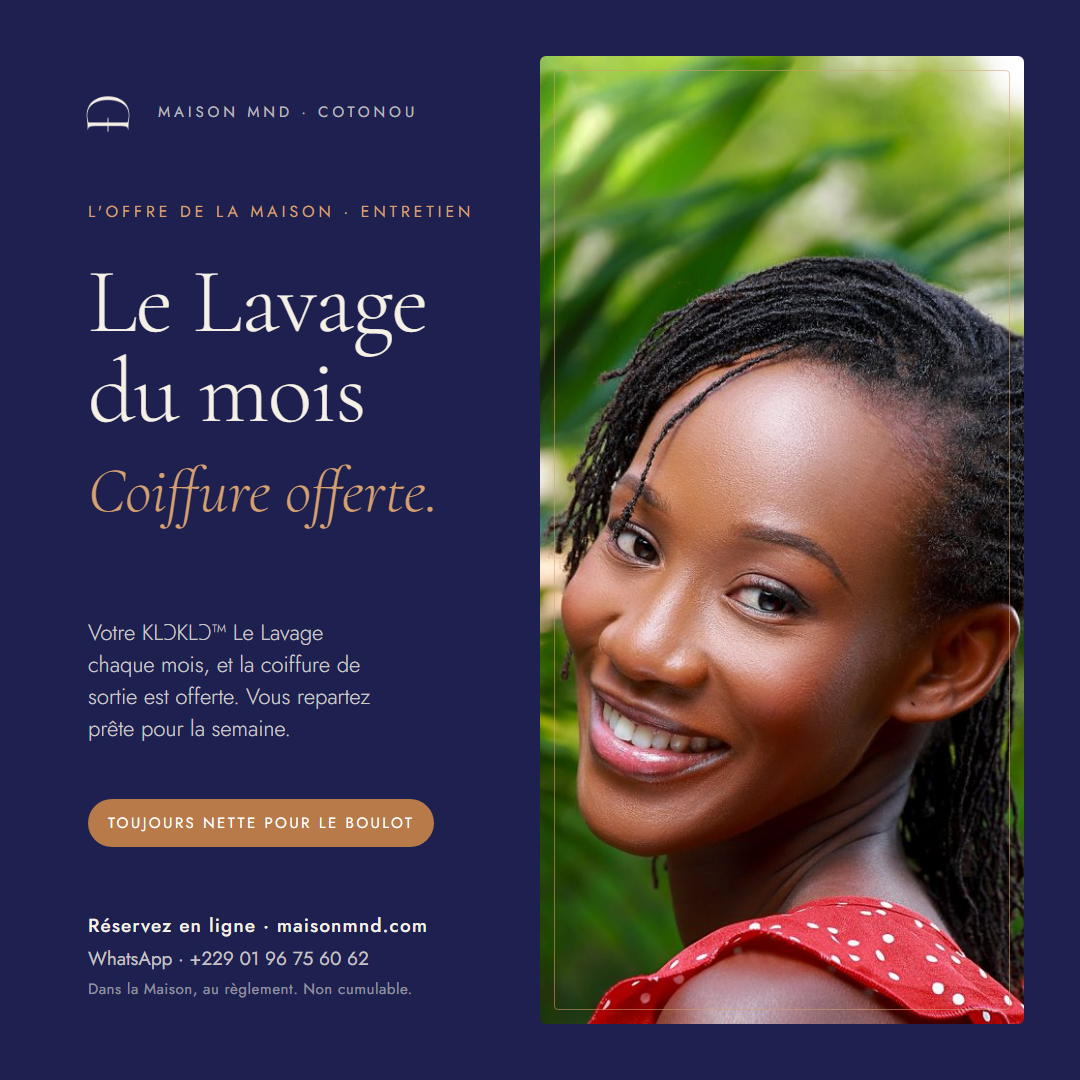
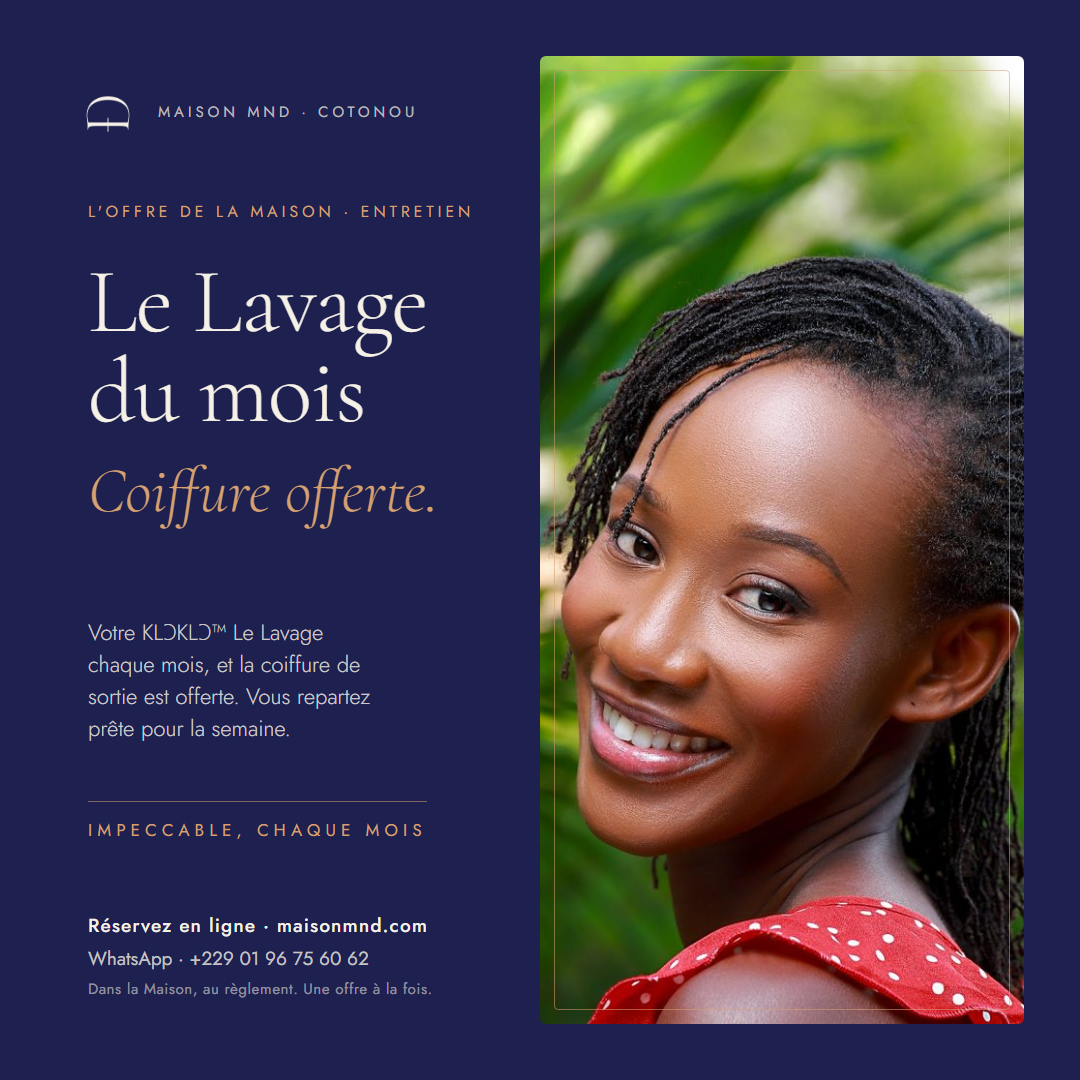
L'accueil s'épure, la Maison date de 2010, et les mots affirment
« Le salon existe depuis 2010 au lieu de 2014, corrige partout. Épure-moi
cette page, beaucoup trop chargée. Évite les mots ou textes négatifs. »
(Yéman). Neuf occurrences de l'année corrigées, dans le contenu, la voix du
site et trois maquettes ; les quatre « 2014 » restants sont des dates de
naissance de test et un code de caractère.

L'accueil perd trois blocs qui disaient deux fois la même chose : la règle
sous les boutons du grand écran, que les trois promesses portent déjà ; le
bandeau de l'offre du 18 septembre, que la carte des offres répète ; la
bande de confiance, seconde réassurance sombre. L'îlot du bandeau et la
section confiance restent dans le code pour une autre page.

Le titre des offres perd « et à quelles conditions », la phrase sur
l'absence de prix disparaît, « non cumulable » devient « une offre à la
fois », « Rien à payer en ligne » devient « Vous réglez à la Maison »,
« Pas encore » devient « Je veux créer ma couronne ». L'accroche du Lavage
du mois se relève pour une clientèle exigeante : « Impeccable, chaque
mois », en petites capitales sous un filet, à la place d'une pastille de
promotion ; les deux affiches sont réexportées.

Le harnais gagne six vérifications, dont une qui ferme un piège payé trois
fois malgré trois notes : aucun accent grave dans un commentaire HTML du
générateur, sans quoi le template literal se referme et rien ne s'écrit.

Changed region(s): [[0.0611, 0.7333, 0.3972, 0.7944], [0.3361, 0.8861, 0.3972, 0.9472]]

diff --git a/public/maquette-les-offres-familles.html b/public/maquette-les-offres-familles.html
@@ -113,22 +113,22 @@ kbd{font-family:var(--sans);font-size:12.5px;background:var(--fond-2);border:1px
 
   <!-- ══════════ A. LE LAVAGE DU MOIS ══════════ -->
   <h2>A · Le Lavage du mois</h2>
-  <p class="cap">Votre idée, avec votre accroche. Un lavage KLƆKLƆ™ chaque mois, et la coiffure de sortie est offerte. Une cliente qui travaille repart nette, et elle revient tous les mois.</p>
+  <p class="cap">Votre idée, avec une accroche relevée pour une clientèle exigeante. Un lavage KLƆKLƆ™ chaque mois, et la coiffure de sortie est offerte. Une cliente qui travaille repart nette, et elle revient tous les mois.</p>
   <div class="duo">
     <article class="offre">
-      <div class="offre__haut"><p class="sur">Entretien · Toujours nette pour le boulot</p><p class="offre__deal">Coiffure offerte</p></div>
+      <div class="offre__haut"><p class="sur">Entretien · Impeccable, chaque mois</p><p class="offre__deal">Coiffure offerte</p></div>
       <div class="offre__corps">
         <h3>Le Lavage du mois</h3>
         <p>Votre KLƆKLƆ™ Le Lavage chaque mois, et la coiffure de sortie est offerte. Vous repartez prête pour la semaine.</p>
         <a class="btn" href="#">Réserver mon lavage</a>
-        <div class="offre__cond"><b>Voir les conditions</b>Un lavage par mois, à la Maison. Le Styling · sortie soignée est offert le même jour, au règlement. Non cumulable.</div>
+        <div class="offre__cond"><b>Voir les conditions</b>Un lavage par mois, à la Maison. Le Styling · sortie soignée est offert le même jour, au règlement. Une offre à la fois.</div>
       </div>
     </article>
     <table>
       <thead><tr><th>Champ du Trône</th><th>Valeur à coller</th></tr></thead>
       <tbody>
         <tr><td class="champ">Titre</td><td><div class="val"><span>Le Lavage du mois</span><button class="copier" type="button">Copier</button></div></td></tr>
-        <tr><td class="champ">Accroche</td><td><div class="val"><span>Toujours nette pour le boulot</span><button class="copier" type="button">Copier</button></div></td></tr>
+        <tr><td class="champ">Accroche</td><td><div class="val"><span>Impeccable, chaque mois</span><button class="copier" type="button">Copier</button></div></td></tr>
         <tr><td class="champ">Avantage</td><td><div class="val"><span>Coiffure offerte</span><button class="copier" type="button">Copier</button></div></td></tr>
         <tr><td class="champ">Détail</td><td><div class="val"><span>Votre KLƆKLƆ™ Le Lavage chaque mois, et la coiffure de sortie est offerte. Vous repartez prête pour la semaine.</span><button class="copier" type="button">Copier</button></div></td></tr>
         <tr><td class="champ">Audience</td><td><div class="val"><span class="vide">Tous</span></div></td></tr>
@@ -139,7 +139,7 @@ kbd{font-family:var(--sans);font-size:12.5px;background:var(--fond-2);border:1px
         <tr><td class="champ">En vitrine, sans date de fin</td><td><div class="val"><span class="vide">Coché</span></div></td></tr>
         <tr><td class="champ">Parcours</td><td><div class="val"><span class="vide">Entretien</span></div></td></tr>
         <tr><td class="champ">Texte du bouton</td><td><div class="val"><span>Réserver mon lavage</span><button class="copier" type="button">Copier</button></div></td></tr>
-        <tr><td class="champ">Conditions</td><td><div class="val"><span>Un lavage par mois, à la Maison. Le Styling · sortie soignée est offert le même jour, au règlement. Non cumulable.</span><button class="copier" type="button">Copier</button></div></td></tr>
+        <tr><td class="champ">Conditions</td><td><div class="val"><span>Un lavage par mois, à la Maison. Le Styling · sortie soignée est offert le même jour, au règlement. Une offre à la fois.</span><button class="copier" type="button">Copier</button></div></td></tr>
       </tbody>
     </table>
   </div>
@@ -150,7 +150,7 @@ kbd{font-family:var(--sans);font-size:12.5px;background:var(--fond-2);border:1px
   <p class="sur" style="margin-top:18px">La notification, telle que vos clientes la recevront</p>
   <div class="notif">
     <img src="assets/monograms/mono-ivoire.png" alt="">
-    <div><b>Toujours nette pour le boulot · Le Lavage du mois</b><p>Coiffure offerte · Votre KLƆKLƆ™ Le Lavage chaque mois, et la coiffure de sortie est offerte. Vous repartez prête pour la semaine.</p><small>Ma Couronne · maintenant</small></div>
+    <div><b>Impeccable, chaque mois · Le Lavage du mois</b><p>Coiffure offerte · Votre KLƆKLƆ™ Le Lavage chaque mois, et la coiffure de sortie est offerte. Vous repartez prête pour la semaine.</p><small>Ma Couronne · maintenant</small></div>
   </div>
   <p class="cap" style="margin-top:8px">Le Trône compose le titre avec l'accroche et le titre, le corps avec l'avantage et le détail. C'est pour cela que ces quatre champs sont écrits pour se lire ainsi.</p>
 
@@ -164,7 +164,7 @@ kbd{font-family:var(--sans);font-size:12.5px;background:var(--fond-2);border:1px
         <h3>Deux couronnes, une venue</h3>
         <p>Venez à deux le même jour, l'une après l'autre : la seconde couronne est allégée.</p>
         <a class="btn" href="#">Réserver notre venue</a>
-        <div class="offre__cond"><b>Voir les conditions</b>Deux gestes le même jour, à la suite. Remise appliquée à la Maison, au règlement, sur le second geste. Non cumulable.</div>
+        <div class="offre__cond"><b>Voir les conditions</b>Deux gestes le même jour, à la suite. Remise appliquée à la Maison, au règlement, sur le second geste. Une offre à la fois.</div>
       </div>
     </article>
     <table>
@@ -177,7 +177,7 @@ kbd{font-family:var(--sans);font-size:12.5px;background:var(--fond-2);border:1px
         <tr><td class="champ">Remise</td><td><div class="val"><span class="vide">Laisser vide. Le champ du Trône réduirait toute la venue dans Ma Couronne ; ici la remise porte sur le second geste et s'applique au comptoir. Taux : <span class="afixer">à fixer par la Maison</span>.</span></div></td></tr>
         <tr><td class="champ">En vitrine · Parcours</td><td><div class="val"><span class="vide">Coché · Entretien</span></div></td></tr>
         <tr><td class="champ">Texte du bouton</td><td><div class="val"><span>Réserver notre venue</span><button class="copier" type="button">Copier</button></div></td></tr>
-        <tr><td class="champ">Conditions</td><td><div class="val"><span>Deux gestes le même jour, à la suite. Remise appliquée à la Maison, au règlement, sur le second geste. Non cumulable.</span><button class="copier" type="button">Copier</button></div></td></tr>
+        <tr><td class="champ">Conditions</td><td><div class="val"><span>Deux gestes le même jour, à la suite. Remise appliquée à la Maison, au règlement, sur le second geste. Une offre à la fois.</span><button class="copier" type="button">Copier</button></div></td></tr>
       </tbody>
     </table>
   </div>
@@ -192,7 +192,7 @@ kbd{font-family:var(--sans);font-size:12.5px;background:var(--fond-2);border:1px
         <h3>Parent et enfant</h3>
         <p>Votre entretien et la séance de votre enfant le même jour, l'un à côté de l'autre. La séance MND Kids est allégée.</p>
         <a class="btn" href="#">Organiser notre visite</a>
-        <div class="offre__cond"><b>Voir les conditions</b>Le même jour, à la suite. Remise sur la séance de l'enfant, au règlement. Non cumulable.</div>
+        <div class="offre__cond"><b>Voir les conditions</b>Le même jour, à la suite. Remise sur la séance de l'enfant, au règlement. Une offre à la fois.</div>
       </div>
     </article>
     <table>
@@ -205,7 +205,7 @@ kbd{font-family:var(--sans);font-size:12.5px;background:var(--fond-2);border:1px
         <tr><td class="champ">Remise</td><td><div class="val"><span class="vide">Laisser vide, même raison. Taux sur la séance de l'enfant : <span class="afixer">à fixer par la Maison</span>.</span></div></td></tr>
         <tr><td class="champ">En vitrine · Parcours</td><td><div class="val"><span class="vide">Coché · MND Kids (le bouton mène au rappel : une visite d'enfant commence par un échange)</span></div></td></tr>
         <tr><td class="champ">Texte du bouton</td><td><div class="val"><span>Organiser notre visite</span><button class="copier" type="button">Copier</button></div></td></tr>
-        <tr><td class="champ">Conditions</td><td><div class="val"><span>Le même jour, à la suite. Remise sur la séance de l'enfant, au règlement. Non cumulable.</span><button class="copier" type="button">Copier</button></div></td></tr>
+        <tr><td class="champ">Conditions</td><td><div class="val"><span>Le même jour, à la suite. Remise sur la séance de l'enfant, au règlement. Une offre à la fois.</span><button class="copier" type="button">Copier</button></div></td></tr>
       </tbody>
     </table>
   </div>
@@ -259,9 +259,9 @@ kbd{font-family:var(--sans);font-size:12.5px;background:var(--fond-2);border:1px
   </div>
   <p class="sur" style="margin-top:18px">La légende, à coller sous l'affiche</p>
   <div class="legende">Le Lavage du mois.
-Votre KLƆKLƆ™ Le Lavage chaque mois, et la coiffure de sortie est offerte. Toujours nette pour le boulot.
+Votre KLƆKLƆ™ Le Lavage chaque mois, et la coiffure de sortie est offerte. Impeccable, chaque mois.
 Réservez en ligne sur maisonmnd.com, ou écrivez-nous sur WhatsApp.
-Dans la Maison, au règlement. Non cumulable.</div>
+Dans la Maison, au règlement. Une offre à la fois.</div>
 
   <div class="regle">
     <p>Une seule notification, pour une seule offre.</p>

diff --git a/src/apps/revelateur/contenu.ts b/src/apps/revelateur/contenu.ts
@@ -50,7 +50,7 @@ export const COMMUN: Commun = {
     { texte: 'Journal', vers: '/journal/' },
   ],
   pied: {
-    phrase: 'La Maison MND, Cotonou. Locks créées, réparées, entretenues, depuis 2014.',
+    phrase: 'La Maison MND, Cotonou. Locks créées, réparées, entretenues, depuis 2010.',
     colonnes: [
       {
         titre: 'Services',
@@ -156,28 +156,30 @@ export const ACCUEIL: Accueil = {
     { texte: 'Je découvre mon parcours', vers: '/mon-parcours/' },
     { texte: "Je sais ce qu'il me faut", vers: '#portes' },
   ],
-  regle: 'Une création ou une réparation commence par une consultation. Un entretien se réserve directement.',
-  metier: 'Locks créées, réparées, entretenues · Cotonou · depuis 2014',
+  metier: 'Locks créées, réparées, entretenues · Cotonou · depuis 2010',
   /* TROIS PROMESSES, TOUTES TENUES PAR LE SITE AUJOURD'HUI, vérifiées dans
      le code avant d'être écrites : la réservation en trois pas sans compte
      (îlot reserver), la confirmation sur WhatsApp (formulaire.suite), rien à
      payer en ligne (/conditions/). On ne promet pas « votre place est tenue »
      ni un délai d'annulation : le site ne les tient pas. */
   promesses: [
-    { titre: 'Un entretien se réserve en ligne', ligne: 'En trois pas, sans créer de compte.' },
+    { titre: 'Un entretien se réserve en ligne', ligne: 'En trois pas, depuis votre téléphone.' },
     { titre: 'La Maison confirme sur WhatsApp', ligne: 'Pendant ses heures d’ouverture.' },
-    { titre: 'Rien à payer en ligne', ligne: 'Un acompte, s’il est demandé, vous est dit avant.' },
+    { titre: 'Vous réglez à la Maison', ligne: 'Le jour venu, au comptoir. Un acompte éventuel vous est dit avant.' },
   ],
   /* LES OFFRES SUR L'ACCUEIL, À LA MANIÈRE DES « DEALS » — 22 septembre 2026.
      Une promesse en grand, un mécanisme en une phrase, un bouton, les
      conditions dépliées dans la carte. Aucun prix en francs : la voix du
      site l'interdit, et c'est ce qui protège le premium. Les offres viennent
      de `mnd_offers`, composées au Trône ; rien n'est écrit ici. */
+  /* DES MOTS QUI AFFIRMENT — 22 septembre 2026, au soir. « Évite les mots ou
+     textes négatifs » (Yéman) : le titre ne dit plus « et à quelles
+     conditions », la phrase sur l'absence de prix est partie, la note sur ce
+     que la Maison « ne solde pas » aussi. Les conditions restent, dépliées
+     dans chaque carte, là où elles servent. */
   offres: {
     sur: 'Les offres de la Maison',
-    titre: 'Ce que la Maison vous offre, et à quelles conditions.',
-    ligne: 'Aucun prix n’est affiché ici : les montants passent par le devis. Ce qui est écrit est tenu, dans la Maison, au règlement.',
-    note: 'Les offres datées portent leur période et disparaissent d’elles-mêmes à leur terme. Les autres disent comment la Maison accueille, pas ce qu’elle solde.',
+    titre: 'Ce que la Maison vous offre.',
   },
   portes: {
     sur: 'Cinq parcours, une seule méthode',
@@ -234,7 +236,7 @@ export const ACCUEIL: Accueil = {
   fondateurs: {
     sur: 'Derrière MND',
     titre: 'Brice et Yéman Ahouansou',
-    ligne: 'Une maison de famille, née en 2014 à Cotonou. Brice, maître loctician, tient les mains. Yéman tient la direction.',
+    ligne: 'Une maison de famille, née en 2010 à Cotonou. Brice, maître loctician, tient les mains. Yéman tient la direction.',
     message: 'Nous ne voulons pas seulement faire pour vous. Nous voulons aussi vous apprendre à comprendre, entretenir, développer et, pour ceux qui le souhaitent, professionnaliser votre propre activité.',
     trois: ['Prendre soin', 'Transformer', 'Transmettre'],
     image: 'fondateurs.jpg',
@@ -547,7 +549,7 @@ export const PAGES: Page[] = [
       {
         type: 'texte',
         titre: 'Brice et Yéman Ahouansou',
-        corps: 'Une maison de famille, née en 2014 à Cotonou. Brice, maître loctician, tient les mains. Yéman tient la direction. Ensemble, ils ont fait de MND un lieu où l\'on prend soin, où l\'on transforme et où l\'on transmet.',
+        corps: 'Une maison de famille, née en 2010 à Cotonou. Brice, maître loctician, tient les mains. Yéman tient la direction. Ensemble, ils ont fait de MND un lieu où l\'on prend soin, où l\'on transforme et où l\'on transmet.',
         image: 'fondateurs.jpg',
       },
       {

diff --git a/public/maquette-affiche-le-lavage-du-mois.html b/public/maquette-affiche-le-lavage-du-mois.html
@@ -33,8 +33,10 @@ body{font-family:var(--sans);color:var(--ivoire);-webkit-font-smoothing:antialia
 h1{font-family:var(--serif);font-weight:300;font-size:92px;line-height:.98;margin:18px 0 0;color:var(--ivoire);letter-spacing:-.01em}
 .promesse{font-family:var(--serif);font-style:italic;font-weight:300;font-size:64px;line-height:1;color:var(--cuivre-sombre);margin-top:22px}
 .ligne{font-size:22px;line-height:1.45;color:rgba(246,241,231,.82);margin-top:30px;max-width:24ch;font-weight:300}
-/* La pastille tient sur UNE ligne : coupée en deux, l'accroche perd sa voix. */
-.pastille{display:inline-block;margin-top:32px;background:var(--cuivre);color:#fff;font-size:15px;letter-spacing:.16em;text-transform:uppercase;padding:13px 20px;border-radius:999px;align-self:flex-start;white-space:nowrap}
+/* L'ACCROCHE, POUR UNE CLIENTÈLE EXIGEANTE (22 septembre 2026) : plus de
+   pastille de promotion. Une ligne en petites capitales cuivre, sous un
+   filet, comme une signature de maison. Elle tient sur UNE ligne. */
+.accroche{display:inline-block;margin-top:34px;padding-top:16px;border-top:1px solid rgba(214,160,111,.55);font-size:17px;letter-spacing:.3em;text-transform:uppercase;color:var(--cuivre-sombre);align-self:flex-start;white-space:nowrap}
 .pied{margin-top:auto;padding-top:36px;display:flex;flex-direction:column;gap:6px;font-size:19px;color:rgba(246,241,231,.78)}
 .pied b{font-weight:500;color:var(--ivoire);letter-spacing:.06em}
 .pied small{font-size:15px;color:rgba(246,241,231,.55);letter-spacing:.04em}
@@ -55,7 +57,7 @@ body.story .sur{margin-top:0}
 body.story h1{font-size:96px;margin-top:14px}
 body.story .promesse{font-size:66px;margin-top:14px}
 body.story .ligne{font-size:25px;max-width:32ch;margin-top:22px}
-body.story .pastille{font-size:18px;padding:15px 24px;margin-top:22px}
+body.story .accroche{font-size:19px;margin-top:26px}
 body.story .pied{margin-top:30px;padding-top:0;font-size:21px;gap:4px}
 body.story .pied small{font-size:16px}
 </style>
@@ -68,11 +70,11 @@ body.story .pied small{font-size:16px}
     <h1>Le Lavage du mois</h1>
     <p class="promesse">Coiffure offerte.</p>
     <p class="ligne">Votre KLƆKLƆ™ Le Lavage chaque mois, et la coiffure de sortie est offerte. Vous repartez prête pour la semaine.</p>
-    <span class="pastille">Toujours nette pour le boulot</span>
+    <span class="accroche">Impeccable, chaque mois</span>
     <div class="pied">
       <b>Réservez en ligne · maisonmnd.com</b>
       <span>WhatsApp · +229 01 96 75 60 62</span>
-      <small>Dans la Maison, au règlement. Non cumulable.</small>
+      <small>Dans la Maison, au règlement. Une offre à la fois.</small>
     </div>
   </div>
   <div class="aff__photo"><img src="assets/photos/site/entretien.jpg" alt=""></div>

diff --git a/scripts/verifie-la-vitrine.harnais.ts b/scripts/verifie-la-vitrine.harnais.ts
@@ -63,6 +63,30 @@ dit('… juste après le hero, avant les portes', true,
   accueil.indexOf('class="promesses"') < accueil.indexOf('id="portes"'));
 dit('les offres se montent sur l’accueil, en genre accueil', true, accueil.includes('data-ilot="offres" data-genre="accueil"'));
 
+/* ── L'ACCUEIL ÉPURÉ, ET DES MOTS QUI AFFIRMENT — 22 septembre 2026 ────
+   « Le salon existe depuis 2010 », « épure-moi cette page », « évite les
+   mots négatifs » (Yéman). Le bandeau et la bande de confiance ne vivent plus
+   sur l'accueil ; les phrases retirées ne doivent pas revenir par une
+   réécriture. */
+dit('la Maison existe depuis 2010, nulle part 2014', true, accueil.includes('depuis 2010') && !accueil.includes('2014'));
+dit('… sur chaque page servie', [], [...pages].filter(([, h]) => h.includes('2014')).map(([c]) => c));
+dit('le bandeau de l’offre ne vit plus sur l’accueil', false, accueil.includes('data-ilot="bandeau-offre"'));
+dit('la bande de confiance non plus', false, accueil.includes('class="confiance sombre"'));
+dit('le titre des offres affirme', false, /à quelles conditions|Aucun prix|ne solde pas|non cumulable|Rien à payer/.test(accueil));
+
+/* ── AUCUN ACCENT GRAVE DANS UN COMMENTAIRE DE GABARIT ──────────────
+   Les gabarits de genere-revelateur.mjs sont des template literals : un
+   accent grave dans un commentaire HTML les referme, et le générateur plante
+   sans rien écrire. Trois notes écrites (REPRENDRE.md:279 et :711,
+   lettres-du-pret.ts:176) n'ont pas suffi, le 22 septembre 2026 le piège
+   s'est refermé une troisième fois. Une règle qui ne vit qu'en prose se
+   lit après avoir écrit ; celle-ci se lit avant de publier. */
+const generateur = readFileSync('scripts/genere-revelateur.mjs', 'utf8');
+const commentairesAvecAccentGrave = [...generateur.matchAll(/<!--([\s\S]*?)-->/g)]
+  .filter((m) => m[1].includes('`'))
+  .map((m) => m[1].trim().slice(0, 60));
+dit('aucun accent grave dans un commentaire HTML du générateur', [], commentairesAvecAccentGrave);
+
 /* ── LE RAPPEL PROMIS EXISTE ───────────────────────────────────────── */
 dit('la page /rappel/ est écrite', true, pages.has('/rappel/'));
 dit('… et monte le formulaire de rappel', true, (pages.get('/rappel/') ?? '').includes('data-ilot="demande"'));

diff --git a/public/maquette-le-site-revelateur.html b/public/maquette-le-site-revelateur.html
@@ -418,7 +418,7 @@
       <div>
         <p class="sur">Derrière MND</p>
         <h2 style="margin-top:10px">Brice et Yéman Ahouansou</h2>
-        <p class="ligne" style="margin-top:12px">Une maison de famille, née en 2014 à Cotonou. Brice, maître loctician, tient les mains. Yéman tient la direction.</p>
+        <p class="ligne" style="margin-top:12px">Une maison de famille, née en 2010 à Cotonou. Brice, maître loctician, tient les mains. Yéman tient la direction.</p>
         <p class="message">Nous ne voulons pas seulement faire pour vous. Nous voulons aussi vous apprendre à comprendre, entretenir et développer votre couronne.</p>
         <div class="trois"><b>Prendre soin</b><b>Transformer</b><b>Transmettre</b></div>
       </div>
@@ -620,7 +620,7 @@
   <div class="conteneur">
     <div>
       <a class="logo" href="#accueil" aria-label="MND"><img src="assets/photos/site/mono-ivoire.png" alt="MND" width="240" height="198"></a>
-      <p style="margin-top:14px; max-width:32ch">La Maison MND, Cotonou. Locks créées, réparées, entretenues, depuis 2014.</p>
+      <p style="margin-top:14px; max-width:32ch">La Maison MND, Cotonou. Locks créées, réparées, entretenues, depuis 2010.</p>
     </div>
     <div><h4>Services</h4><ul><li><a href="#premiere-couronne">Première Couronne</a></li><li><a href="#reparation">Réparation</a></li><li><a href="#entretien">Entretien et soins</a></li><li><a href="#mnd-kids">MND Kids</a></li><li><a href="#formations">Formations</a></li></ul></div>
     <div><h4>La Maison</h4><ul><li><a href="#maison">Derrière MND</a></li><li><a href="#journal">Le Journal</a></li><li><a href="#mon-parcours">Mon parcours</a></li><li><a href="#reserver">Réserver</a></li></ul></div>

diff --git a/src/apps/revelateur/ilots/Offres.tsx b/src/apps/revelateur/ilots/Offres.tsx
@@ -92,10 +92,10 @@ export default function Offres({ genre }: { genre?: string }) {
   const vide = offres === null
     ? 'Les offres de la Maison se disent au salon. Écrivez-nous, nous vous les présentons.'
     : accueil
-      ? 'Aucune offre en ce moment. Les cinq portes ci-dessus disent comment la Maison vous accueille.'
+      ? 'La Maison prépare ses prochaines offres. Les cinq portes ci-dessus vous ouvrent la Maison.'
       : onglet === 'cours'
-        ? 'Aucune offre en cours en ce moment. Regardez le second onglet, la Maison prépare la suite.'
-        : 'Aucune offre annoncée pour l’instant. Revenez bientôt, les saisons se suivent.';
+        ? 'La Maison prépare la suite : regardez le second onglet.'
+        : 'Les saisons se suivent : revenez bientôt.';
 
   return (
     <div className="offres-site">
@@ -133,7 +133,7 @@ export default function Offres({ genre }: { genre?: string }) {
             const datee = !!(o.du || o.au);
             /* LES CONDITIONS VIENNENT DE LA MAISON ; la période et « dans la
                Maison, non cumulable » restent, elles sont vraies de toutes. */
-            const conditions = [laPeriode(o), o.conditions?.trim() || 'Dans la Maison, au règlement, non cumulable avec toute promotion en cours.']
+            const conditions = [laPeriode(o), o.conditions?.trim() || 'Dans la Maison, au règlement. Une offre à la fois.']
               .filter(Boolean).join('. ').replace(/\.\./g, '.');
             return (
               <article className={`offre-site${datee && accueil ? ' est-moment' : ''}`} key={o.id}>

diff --git a/src/apps/revelateur/contenu-types.ts b/src/apps/revelateur/contenu-types.ts
@@ -70,7 +70,6 @@ export type Accueil = {
   h1: string;
   ligne: string;
   boutons: Lien[];
-  regle: string;
   /** LE MÉTIER, DIT AU PREMIER ÉCRAN — 22 septembre 2026. Ni « locks » ni
       « dreadlocks » n'apparaissaient avant de faire défiler : il fallait déjà
       savoir que « couronne » veut dire locks. Une ligne au-dessus du titre. */
@@ -78,7 +77,7 @@ export type Accueil = {
   /** Trois promesses tenues par le site, posées juste sous le grand écran. */
   promesses: { titre: string; ligne: string }[];
   /** La section des offres sur l'accueil : l'îlot `offres` s'y monte. */
-  offres: { sur: string; titre: string; ligne: string; note: string };
+  offres: { sur: string; titre: string };
   portes: { sur: string; titre: string; cartes: { titre: string; ligne: string; suite: string; vers: string; image?: string }[]; repli: string; repliBouton: Lien };
   confiance: { sur: string; citation: string; gages: { titre: string; ligne: string }[] };
   fondateurs: { sur: string; titre: string; ligne: string; message: string; trois: string[]; image: string };

diff --git a/public/maquette-la-vitrine-revisitee.html b/public/maquette-la-vitrine-revisitee.html
@@ -231,7 +231,7 @@ section{padding-block:clamp(40px,6.5vw,84px)}
   <!-- 1. LE PREMIER ÉCRAN : il nomme le métier et la ville, il dit le mécanisme -->
   <header class="hero"><div class="conteneur hero__grille">
     <div>
-      <p class="sur">Locks créées, réparées, entretenues · Cotonou · depuis 2014</p>
+      <p class="sur">Locks créées, réparées, entretenues · Cotonou · depuis 2010</p>
       <h1>Votre couronne mérite d'être comprise, soignée et révélée.</h1>
       <p class="devise">Mi nyɔ́ ɖɛkpɛ <small>En fon : « Vous êtes belle. »</small></p>
       <p class="ligne">Première couronne, réparation, entretien, enfants ou formation : il existe un chemin pour vous, à Cotonou. Nous commençons par vous écouter.</p>

diff --git a/src/apps/revelateur/ilots/Reserver.tsx b/src/apps/revelateur/ilots/Reserver.tsx
@@ -503,7 +503,7 @@ export default function Reserver({ besoin: besoinInitial }: Props) {
         <small>Une consultation d’abord. Laissez votre numéro, la Maison vous rappelle.</small>
       </a>
       <a className="porte-rdv__choix" href={`${base}/rappel/?besoin=creation`}>
-        <span>Pas encore</span>
+        <span>Je veux créer ma couronne</span>
         <small>Une création commence par une consultation. La Maison vous rappelle.</small>
       </a>
     </div>

diff --git a/docs/site-revelateur/voix-du-site.md b/docs/site-revelateur/voix-du-site.md
@@ -349,7 +349,7 @@ Repères pour la pose :
 
 **Sous-titre :** Brice et Yéman Ahouansou
 
-**Introduction :** MND est une maison de famille, née en 2014 à Cotonou. Brice Ahouansou, maître loctician, tient les mains. Yéman Ahouansou tient la direction. Ensemble, ils ont fait de MND un lieu où l'on prend soin, où l'on transforme et où l'on transmet.
+**Introduction :** MND est une maison de famille, née en 2010 à Cotonou. Brice Ahouansou, maître loctician, tient les mains. Yéman Ahouansou tient la direction. Ensemble, ils ont fait de MND un lieu où l'on prend soin, où l'on transforme et où l'on transmet.
 
 ### Quatre manières d'être là
 
@@ -399,7 +399,7 @@ Repères pour la pose :
 
 ### Les rassurances
 
-**Expertise :** Une pratique des locks afro depuis 2014, et une méthode nommée, écrite et enseignée.
+**Expertise :** Une pratique des locks afro depuis 2010, et une méthode nommée, écrite et enseignée.
 
 **Consultation :** Pour une création ou une réparation, nous commençons toujours par une consultation. Comprendre avant de proposer.
 
